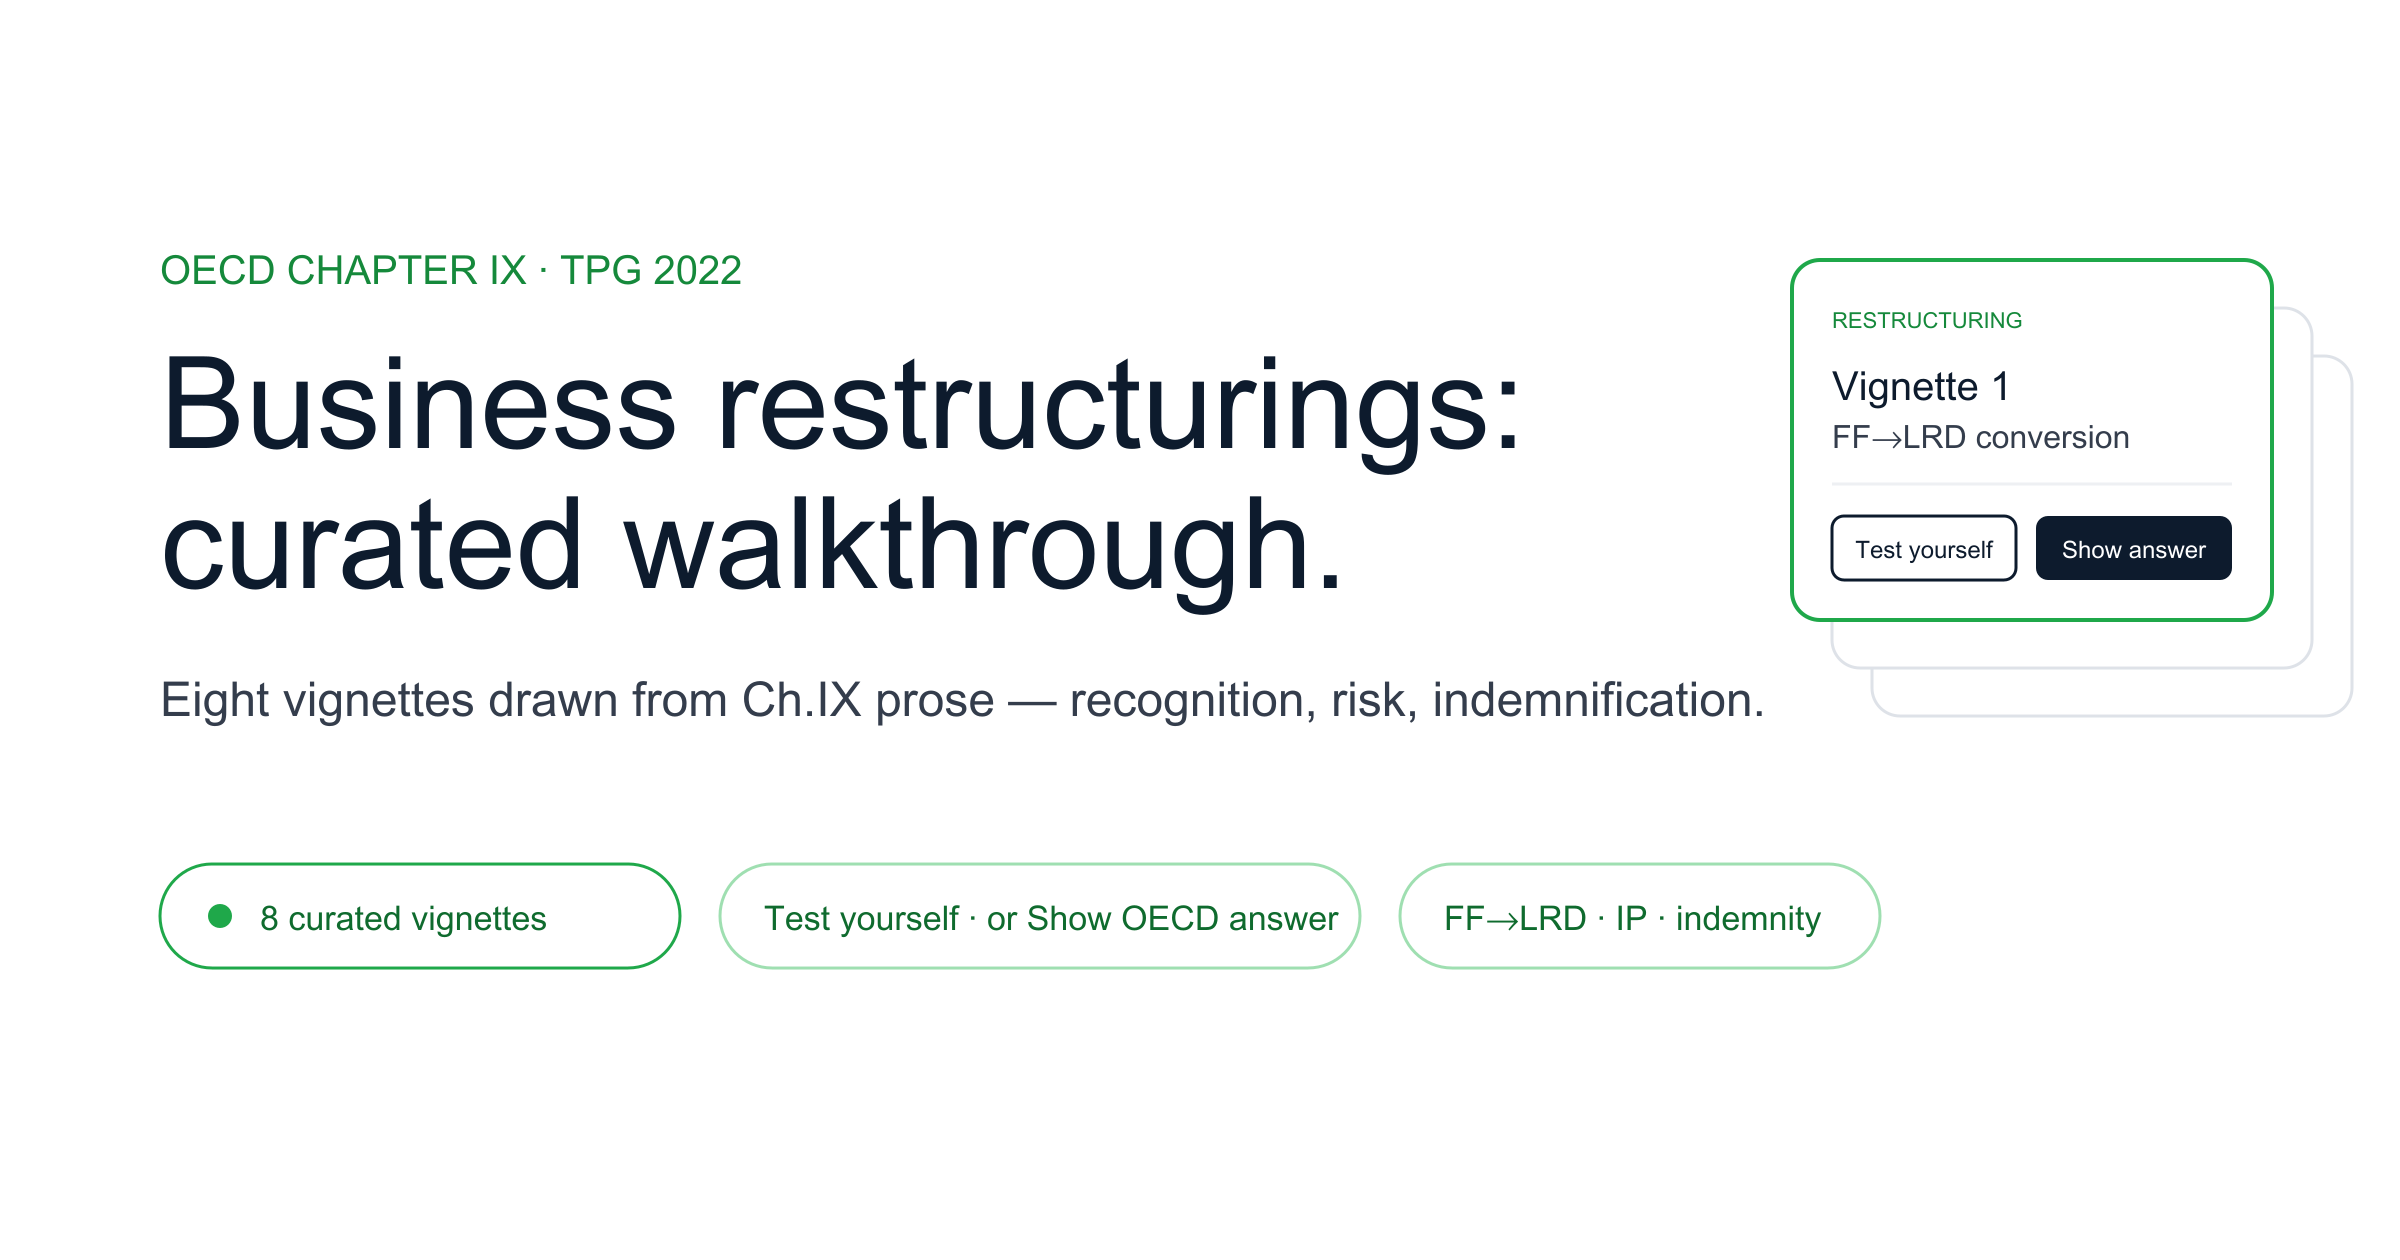
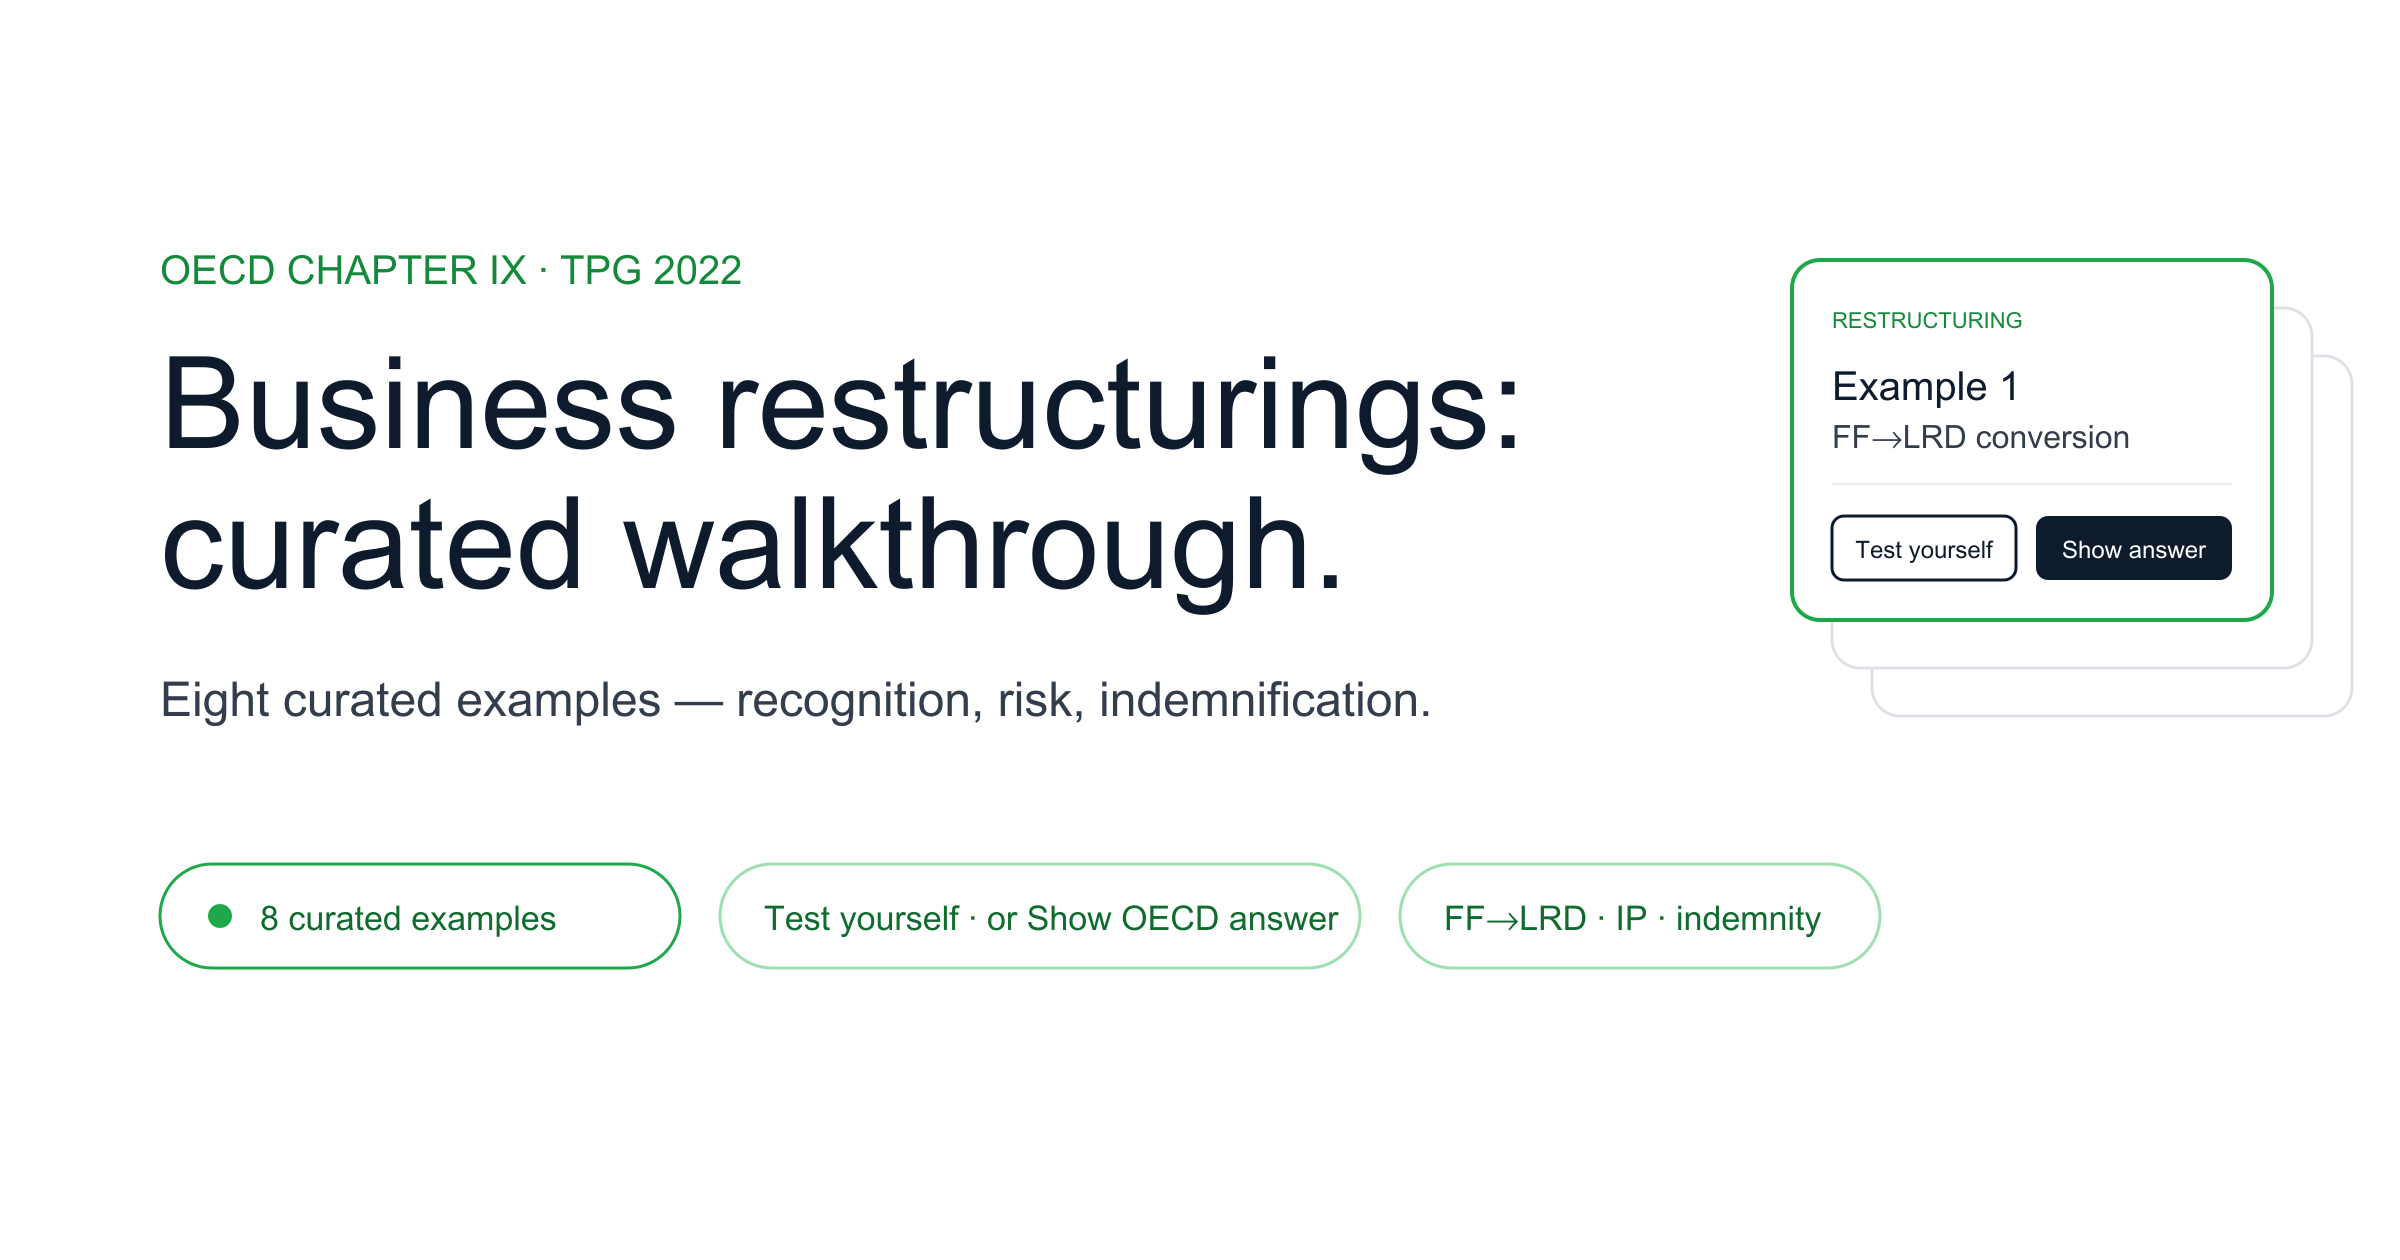
copy: Ch.9 — editorial notes on examples 3 & 7; align wording with other chapters

Changed region(s): [[0.125, 0.5262, 0.7188, 0.5881], [0.75, 0.2786, 0.8438, 0.3405], [0.1562, 0.7119, 0.25, 0.7429]]

diff --git a/Chapter9/index.html b/Chapter9/index.html
@@ -4,19 +4,19 @@
 <meta charset="UTF-8">
 <meta name="viewport" content="width=device-width, initial-scale=1">
 <title>OECD Chapter IX — business restructurings: curated walkthrough | inRange</title>
-<meta name="description" content="A curated walkthrough of eight worked vignettes drawn from Chapter IX of the OECD Transfer Pricing Guidelines (2022): full-fledged-to-LRD conversion, IP centralisation, recognition, risk reallocation, indemnification, ongoing concern, loss-making LRD, location savings.">
+<meta name="description" content="A curated walkthrough of eight curated examples drawn from Chapter IX of the OECD Transfer Pricing Guidelines (2022): full-fledged-to-LRD conversion, IP centralisation, recognition, risk reallocation, indemnification, ongoing concern, loss-making LRD, location savings.">
 <meta property="og:title" content="OECD Chapter IX — business restructurings: curated walkthrough">
-<meta property="og:description" content="Eight worked vignettes from Chapter IX of the OECD TP Guidelines (2022) — recognition, risk reallocation, indemnification and more. Test your instinct, then read OECD's reasoning.">
+<meta property="og:description" content="Eight curated examples from Chapter IX of the OECD TP Guidelines (2022) — recognition, risk reallocation, indemnification and more. Test your instinct, then read OECD's reasoning.">
 <meta property="og:type" content="website">
 <meta property="og:url" content="https://www.inrange.nl/Chapter9/">
 <meta property="og:image" content="https://www.inrange.nl/Chapter9/og-image.png">
 <meta property="og:image:width" content="2400">
 <meta property="og:image:height" content="1260">
-<meta property="og:image:alt" content="OECD Chapter IX — Interactive walkthrough of curated business-restructuring vignettes. An inRange page.">
+<meta property="og:image:alt" content="OECD Chapter IX — Interactive walkthrough of curated business-restructuring examples. An inRange page.">
 <meta name="twitter:card" content="summary_large_image">
 <meta name="twitter:image" content="https://www.inrange.nl/Chapter9/og-image.png">
 <meta name="twitter:title" content="OECD Chapter IX — business restructurings: curated walkthrough">
-<meta name="twitter:description" content="Eight worked vignettes from Chapter IX of the OECD TP Guidelines (2022) — recognition, risk reallocation, indemnification and more.">
+<meta name="twitter:description" content="Eight curated examples from Chapter IX of the OECD TP Guidelines (2022) — recognition, risk reallocation, indemnification and more.">
 <link rel="stylesheet" href="../colors_and_type.css">
 <link rel="preconnect" href="https://fonts.googleapis.com">
 <link rel="preconnect" href="https://fonts.gstatic.com" crossorigin>
@@ -298,6 +298,12 @@ details.how-to .how-to-body .how-to-mini strong{color:var(--fg-1);font-weight:60
 .oecd-glance{background:var(--brand-green-50);border-left:3px solid var(--brand-green-500);padding:14px 18px;border-radius:6px;margin:0 0 28px}
 .oecd-glance__label{font-size:11px;font-weight:700;letter-spacing:.14em;text-transform:uppercase;color:var(--brand-green-700);margin-bottom:4px}
 .oecd-glance__body{font-size:15px;line-height:1.55;color:var(--fg-1)}
+
+.oecd-editorial{background:var(--accent-sand);border-left:3px solid var(--accent-ochre);padding:14px 18px;border-radius:6px;margin:0 0 20px}
+.oecd-editorial__label{font-size:11px;font-weight:700;letter-spacing:.14em;text-transform:uppercase;color:var(--accent-terra);margin-bottom:4px}
+.oecd-editorial__body{font-size:14px;line-height:1.55;color:var(--fg-1);font-style:italic}
+[data-theme="dark"] .oecd-editorial{background:rgba(212,160,98,.10);border-left-color:var(--accent-ochre)}
+[data-theme="dark"] .oecd-editorial__body{color:var(--fg-1)}
 
 .oecd-section-label{font-size:11px;font-weight:700;letter-spacing:.14em;text-transform:uppercase;color:var(--fg-3);margin:0 0 12px}
 
@@ -632,10 +638,10 @@ a.toc__group-label:hover{color:var(--brand-green-700)}
     <section class="hero" id="intro">
       <span class="eyebrow">OECD Chapter IX · TPG 2022</span>
       <h1>Business restructurings.</h1>
-      <p class="lead">Chapter IX has no formal numbered examples; this is a curated set of eight vignettes drawn from the chapter's prose, each anchored in specific paragraphs of the 2022 Transfer Pricing Guidelines.</p>
+      <p class="lead">A walkthrough of eight curated examples distilled from the prose of Chapter IX of the OECD Transfer Pricing Guidelines (2022 edition). Chapter IX contains no formal numbered examples, so each one here is authorial and anchored to specific paragraphs.</p>
 
       <div class="disclaimer">
-        <strong>Teaching summary.</strong> These vignettes are authorial paraphrases that distil specific paragraphs of Chapter IX for learning purposes. For any binding interpretation, consult the OECD Transfer Pricing Guidelines themselves.
+        <strong>Teaching summary.</strong> These examples are authorial paraphrases that distil specific paragraphs of Chapter IX for learning purposes. For any binding interpretation, consult the OECD Transfer Pricing Guidelines themselves.
       </div>
     </section>
 
@@ -672,7 +678,7 @@ a.toc__group-label:hover{color:var(--brand-green-700)}
     <section class="closing" aria-label="Call to action">
       <div class="closing__cta-eyebrow">Work together</div>
       <h2 class="closing__cta-title">Compare notes on restructurings</h2>
-      <p class="closing__cta-body">If any of these vignettes raised a question, an edge case, or a different reading from how you'd apply it in practice, I'd like to hear. Message me on LinkedIn or get in touch by email — happy to compare notes.</p>
+      <p class="closing__cta-body">If any of these examples raised a question, an edge case, or a different reading from how you'd apply it in practice, I'd like to hear. Message me on LinkedIn or get in touch by email — happy to compare notes.</p>
       <div class="closing__cta-buttons">
         <a class="closing__btn closing__btn--primary" href="https://www.linkedin.com/in/aleks-davydov-912a4160/" target="_blank" rel="noreferrer">
           <svg viewBox="0 0 24 24" fill="currentColor" aria-hidden="true"><path d="M20.45 20.45h-3.55v-5.57c0-1.33-.02-3.03-1.85-3.03-1.85 0-2.13 1.45-2.13 2.94v5.66H9.36V9h3.41v1.56h.05c.47-.9 1.64-1.85 3.37-1.85 3.6 0 4.27 2.37 4.27 5.45v6.29zM5.34 7.43a2.06 2.06 0 1 1 0-4.12 2.06 2.06 0 0 1 0 4.12zm1.78 13.02H3.56V9h3.56v11.45zM22.22 0H1.77C.79 0 0 .77 0 1.72v20.56C0 23.23.79 24 1.77 24h20.45c.98 0 1.78-.77 1.78-1.72V1.72C24 .77 23.2 0 22.22 0z"/></svg>
@@ -694,7 +700,7 @@ a.toc__group-label:hover{color:var(--brand-green-700)}
 </a>
 
     <footer class="page-footer">
-      <p>These vignettes are drawn from the prose of Chapter IX (Transfer pricing aspects of business restructurings) of the OECD Transfer Pricing Guidelines for Multinational Enterprises and Tax Administrations (2022 edition).<br>Source: <a href="https://www.oecd.org/en/publications/oecd-transfer-pricing-guidelines-for-multinational-enterprises-and-tax-administrations-2022_0e655865-en.html" target="_blank" rel="noreferrer">OECD Transfer Pricing Guidelines (2022)</a>.</p>
+      <p>These examples are drawn from the prose of Chapter IX (Transfer pricing aspects of business restructurings) of the OECD Transfer Pricing Guidelines for Multinational Enterprises and Tax Administrations (2022 edition).<br>Source: <a href="https://www.oecd.org/en/publications/oecd-transfer-pricing-guidelines-for-multinational-enterprises-and-tax-administrations-2022_0e655865-en.html" target="_blank" rel="noreferrer">OECD Transfer Pricing Guidelines (2022)</a>.</p>
     </footer>
   </main>
 </div>
@@ -852,6 +858,16 @@ a.toc__group-label:hover{color:var(--brand-green-700)}
       { class: "oecd-glance" },
       el("div", { class: "oecd-glance__label" }, "At a glance"),
       el("div", { class: "oecd-glance__body" }, c.atGlance)
+    );
+  }
+
+  function renderEditorial(c) {
+    if (!c.editorial) return null;
+    return el(
+      "div",
+      { class: "oecd-editorial" },
+      el("div", { class: "oecd-editorial__label" }, "Editorial note"),
+      el("div", { class: "oecd-editorial__body" }, c.editorial)
     );
   }
 
@@ -1168,6 +1184,7 @@ a.toc__group-label:hover{color:var(--brand-green-700)}
       "article",
       { class: "oecd-case", id: `case-${c.id}`, attrs: { "data-theme": c.theme } },
       renderHeader(c),
+      renderEditorial(c),
       renderGlance(c),
       renderParties(c),
       renderTimeline(c),
@@ -1365,7 +1382,7 @@ a.toc__group-label:hover{color:var(--brand-green-700)}
     const toast = document.getElementById("toast");
     const SHARE_URL = "https://www.inrange.nl/Chapter9";
     const SHARE_TITLE = "OECD Chapter IX — Business restructurings: curated walkthrough";
-    const SHARE_TEXT = "Eight authorial vignettes drawn from Chapter IX of the OECD Transfer Pricing Guidelines (2022) — recognition, risk reallocation, indemnification, and more.";
+    const SHARE_TEXT = "Eight curated examples drawn from Chapter IX of the OECD Transfer Pricing Guidelines (2022) — recognition, risk reallocation, indemnification, and more.";
 
     function showToast(message) {
       if (!toast) return;

diff --git a/Chapter9/cases.js b/Chapter9/cases.js
@@ -9,7 +9,7 @@
 globalThis.CASES = [
 
   /* ===================================================================
-     COMPENSATION FOR THE RESTRUCTURING ITSELF (Vignettes 1, 2, 5, 6)
+     COMPENSATION FOR THE RESTRUCTURING ITSELF (Examples 1, 2, 5, 6)
      =================================================================== */
 
   {
@@ -135,7 +135,7 @@ globalThis.CASES = [
       "Chapter VI Sections B.2 (DEMPE), D.1–D.4 (IP valuation)",
       "Section E.2 of Part I (transfer of intangibles)",
       "Section A.4.6 of Chapter VI (ongoing concern)",
-      "Vignette 6 (transfer of ongoing concern)"
+      "Example 6 (transfer of ongoing concern)"
     ]
   },
 
@@ -146,6 +146,8 @@ globalThis.CASES = [
     title: "Recognition or disregard of the restructuring",
     group: "MNE Group · principal in a low-tax jurisdiction",
     refs: "Ch.IX · ¶9.34–9.38, cross-ref Section D.2 of Chapter I (¶1.142)",
+    editorial:
+      "This scenario sits at the boundary between Chapters I and IX. It is included because business restructurings occasionally raise the threshold question of whether the arrangement itself should be respected before any transfer-pricing analysis can be undertaken.",
     atGlance:
       "A restructuring takes a form rarely seen between independent enterprises and the principal sits in a low-tax jurisdiction. A tax administration is tempted to disregard it. What's the test — and how high is the bar?",
     parties: {
@@ -182,7 +184,7 @@ globalThis.CASES = [
     crossRefs: [
       "Section D.2 of Chapter I (non-recognition, ¶1.142)",
       "Section D.1 of Chapter I (accurate delineation)",
-      "Vignette 4 (risk control under the same framework)"
+      "Example 4 (risk control under the same framework)"
     ]
   },
 
@@ -228,8 +230,8 @@ globalThis.CASES = [
       "A bare contractual reallocation of risk doesn't move the profit potential. Under Section D.1.2.1 of Ch.I (echoed in ¶9.20–9.21), the risk — and the associated return — follows the party that actually controls it AND has the financial capacity to bear it.",
     crossRefs: [
       "Section D.1.2.1 of Chapter I (six-step risk framework)",
-      "Vignette 3 (recognition vs disregard)",
-      "Vignette 1 (FF→LRD conversion)"
+      "Example 3 (recognition vs disregard)",
+      "Example 1 (FF→LRD conversion)"
     ]
   },
 
@@ -276,7 +278,7 @@ globalThis.CASES = [
     crossRefs: [
       "Section F of Part I (¶9.75–9.97 indemnification framework)",
       "Section D.1 of Chapter I (accurate delineation)",
-      "Vignette 1 (compensation at conversion)"
+      "Example 1 (compensation at conversion)"
     ]
   },
 
@@ -324,7 +326,7 @@ globalThis.CASES = [
       "Section E.3 of Part I (¶9.68–9.74 ongoing concern)",
       "Section D.7 of Chapter I (assembled workforce)",
       "Section A.4.6 of Chapter VI (goodwill / ongoing concern value)",
-      "Vignette 2 (IP centralisation as ongoing concern)"
+      "Example 2 (IP centralisation as ongoing concern)"
     ]
   },
 
@@ -335,6 +337,8 @@ globalThis.CASES = [
     title: "Loss-making LRD post-conversion",
     group: "MNE Group · post-restructuring review",
     refs: "Ch.IX · ¶9.105, 9.108",
+    editorial:
+      "While this issue is closely connected to comparability and pricing analyses elsewhere in the Guidelines, it is frequently encountered following conversions of entrepreneurial entities into limited-risk entities and therefore provides a useful post-restructuring perspective.",
     atGlance:
       "A freshly-converted LRD records a loss in its first post-restructuring year. The benchmark range for LRDs is firmly positive. What does the loss mean — for the conversion, the post-restructuring TP, or both?",
     parties: {
@@ -371,8 +375,8 @@ globalThis.CASES = [
     crossRefs: [
       "Section D of Part II (¶9.100–9.107 pre/post comparison)",
       "Section B of Part II (¶9.108 post-restructuring method)",
-      "Vignette 1 (compensation at conversion)",
-      "Vignette 4 (substance over contract on risk)"
+      "Example 1 (compensation at conversion)",
+      "Example 4 (substance over contract on risk)"
     ]
   },
 
@@ -421,7 +425,7 @@ globalThis.CASES = [
     crossRefs: [
       "Section E of Part II (¶9.126–9.131 location savings)",
       "Section D.6 of Chapter I (location savings, options realistically available)",
-      "Vignette 6 (transfer of ongoing concern)"
+      "Example 6 (transfer of ongoing concern)"
     ]
   }
 
